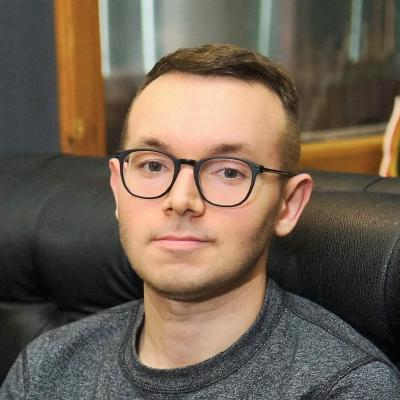
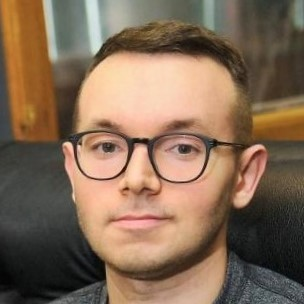
refactor: font size increase

diff --git a/components/grid/GridItem.js b/components/grid/GridItem.js
@@ -16,7 +16,7 @@ export const GridItem = ({ children, href, title, thumbnail }) => (
       <LinkOverlay href={href} target="_blank">
         <Text mt={2}>{title}</Text>
       </LinkOverlay>
-      <Text fontSize={14}>{children}</Text>
+      <Text fontSize={16}>{children}</Text>
     </LinkBox>
   </Box>
 );
@@ -40,11 +40,11 @@ export const ProjectGridItem = ({ children, id, title, thumbnail }) => (
           placeholder="blur"
         />
         <LinkOverlay href={`/projects/${id}`}>
-          <Text mt={2} fontSize={20}>
+          <Text mt={2} fontSize={22}>
             {title}
           </Text>
         </LinkOverlay>
-        <Text fontSize={14}>{children}</Text>
+        <Text fontSize={16}>{children}</Text>
       </LinkBox>
     </NextLink>
   </Box>
@@ -60,11 +60,11 @@ export const PostGridItem = ({ children, id, title, thumbnail }) => (
           placeholder="blur"
         />
         <LinkOverlay href={`/posts/${id}`}>
-          <Text mt={2} fontSize={20}>
+          <Text mt={2} fontSize={22}>
             {title}
           </Text>
         </LinkOverlay>
-        <Text fontSize={14}>{children}</Text>
+        <Text fontSize={16}>{children}</Text>
       </LinkBox>
     </NextLink>
   </Box>

diff --git a/lib/theme.js b/lib/theme.js
@@ -15,19 +15,19 @@ const components = {
     variants: {
       'section-title': {
         textDecoration: 'underline',
-        fontSize: 22,
+        fontSize: 24,
         textUnderlineOffset: 6,
         textDecorationColor: '#525252',
-         textDecorationThickness: 4,
+        textDecorationThickness: 4,
         marginTop: 3,
         marginBottom: 4
       },
       'page-title': {
         fontSize: 34,
         letterSpacing: 1,
-           textUnderlineOffset: 6,
+        textUnderlineOffset: 6,
         textDecorationColor: '#525252',
-        textDecrationThickness: 4,
+        textDecrationThickness: 4
       }
     }
   },
@@ -35,7 +35,18 @@ const components = {
     baseStyle: props => ({
       borderRadius: '0.375rem',
       color: mode('#0c5df5', '#F9E282')(props),
-      textUnderlineOffset: 3
+      textUnderlineOffset: 3,
+      variants: {
+        'section-title': {
+          textDecoration: 'underline',
+          fontSize: 24,
+          textUnderlineOffset: 6,
+          textDecorationColor: '#525252',
+          textDecorationThickness: 4,
+          marginTop: 3,
+          marginBottom: 4
+        }
+      }
     })
   }
 };

diff --git a/pages/index.js b/pages/index.js
@@ -44,7 +44,7 @@ const HomePage = () => {
               borderColor="whiteAlpha.800"
               borderWidth={2}
               borderStyle="solid"
-              maxWidth="100px"
+              maxWidth="150px"
               display="inline-block"
               borderRadius="full"
               src="/images/avatar.jpg"

diff --git a/pages/_app.js b/pages/_app.js
@@ -14,8 +14,7 @@ const Website = ({ Component, pageProps, router }) => {
       <Fonts />
       <Layout router={router}>
         <AnimatePresence
-exitBeforeEnter
-        //  mode="wait"
+          mode="wait"
           initial={true}
           onExitComplete={() => {
             if (typeof window !== 'undefined') {

diff --git a/components/navbar/Navbar.js b/components/navbar/Navbar.js
@@ -30,6 +30,7 @@ const LinkItem = ({ href, path, children, target, ...props }) => {
         bg={active ? 'customSaturatedGreenColor' : undefined}
         color={active ? '#202023' : inactiveColor}
         target={target}
+        // fontSize={20}
         {...props}
       >
         {children}

diff --git a/components/project/ProjectTitle.js b/components/project/ProjectTitle.js
@@ -11,7 +11,7 @@ export const ProjectTitle = ({ children }) => (
     <span>
       <ChevronRightIcon />
     </span>
-    <Heading display="inline-block" as="h3" fontSize={20} mb={4}>
+    <Heading display="inline-block" as="h3" fontSize={22} mb={4}>
       {children}
     </Heading>
   </Box>

diff --git a/components/post/PostTitle.js b/components/post/PostTitle.js
@@ -11,7 +11,7 @@ export const PostTitle = ({ children }) => (
     <span>
       <ChevronRightIcon />
     </span>
-    <Heading display="inline-block" as="h2" fontSize={20} mb={2}>
+    <Heading display="inline-block" as="h2" fontSize={22} mb={2}>
       {children}
     </Heading>
   </Box>
